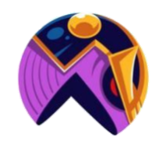
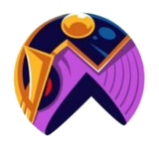
Select pacman added

diff --git a/index.html b/index.html
@@ -289,6 +289,34 @@
 
             <hr>
 
+            <h3>Select Pacman</h3>
+
+            <table>
+                <tr>
+                    <td><img id="thanos_pacman_right" src="images/thanos_pacman_right.png" onclick="settings_changePac('thanos')" class="center" height="80" width="80" style="border-color: black; border-style: solid"></td>
+                    <td ><img id="spiderman_pacman_right" src="images/spiderman_pacman_right.png" onclick="settings_changePac('spiderman')" class="center" height="80" width="80" style="border-color: black;"></td>
+                    <td><img id="ironman_pacman_right" src="images/ironman_pacman_right.png" onclick="settings_changePac('ironman')" class="center" height="80" width="80" style="border-color: black;"></td>
+                    <td><img id="halk_pacman_right" src="images/halk_pacman_right.png" onclick="settings_changePac('halk')" class="center" height="80" width="80" style="border-color: black;"></td>
+
+                </tr>
+
+            </table>
+
+
+
+
+
+
+            <hr>
+
+
+
+
+
+
+
+
+
             <!--            Settings table               -->
 
             <table>
@@ -575,6 +603,8 @@
     var pill_number ; // return a number between 50-90
     var time_seconds = 60;
     var monster_number; // return a number between 1-3
+
+    var pacImgName = "thanos";
 
     var ghosts = [];
     var specialSnack;

diff --git a/GameLogic.js b/GameLogic.js
@@ -180,13 +180,13 @@ function drawPacMan(context){
     context.beginPath();
 
     /*    Draw as Image    */
-    const ghostImag = new Image();
-    ghostImag.src = 'images/thanos_pacman_' + pacmanDirection + '.png';
+    const pacImag = new Image();
+    pacImag.src = 'images/' + pacImgName + '_pacman_' + pacmanDirection + '.png';
     var xPos = center.x - widthStep / 2;
     var yPos = center.y - heightStep / 2;
     var imgWidth = widthStep;
     var imgHeight = heightStep;
-    context.drawImage(ghostImag, xPos, yPos, imgWidth  , imgHeight + 10);
+    context.drawImage(pacImag, xPos, yPos, imgWidth  , imgHeight);
     context.fill();
 
 

diff --git a/SettingManager.js b/SettingManager.js
@@ -139,6 +139,27 @@ function saveSettings() {
 
 
 
+function settings_changePac(pac) {
+    var pacList = ["thanos", "spiderman", "ironman", "halk"];
+
+    var unSelect = pacList.filter(function (value) {
+        return value!=pac;
+    });
+
+    for (var i = 0; i < unSelect.length ; i++){
+        var pacOut = document.getElementById(unSelect[i] + "_pacman_right");
+        pacOut.style.borderStyle = "none";
+    }
+
+    var pacIn = document.getElementById(pac + "_pacman_right");
+    pacIn.style.borderStyle = "solid";
+
+    pacImgName = pac;
+}
+
+
+
+
 
 
 
